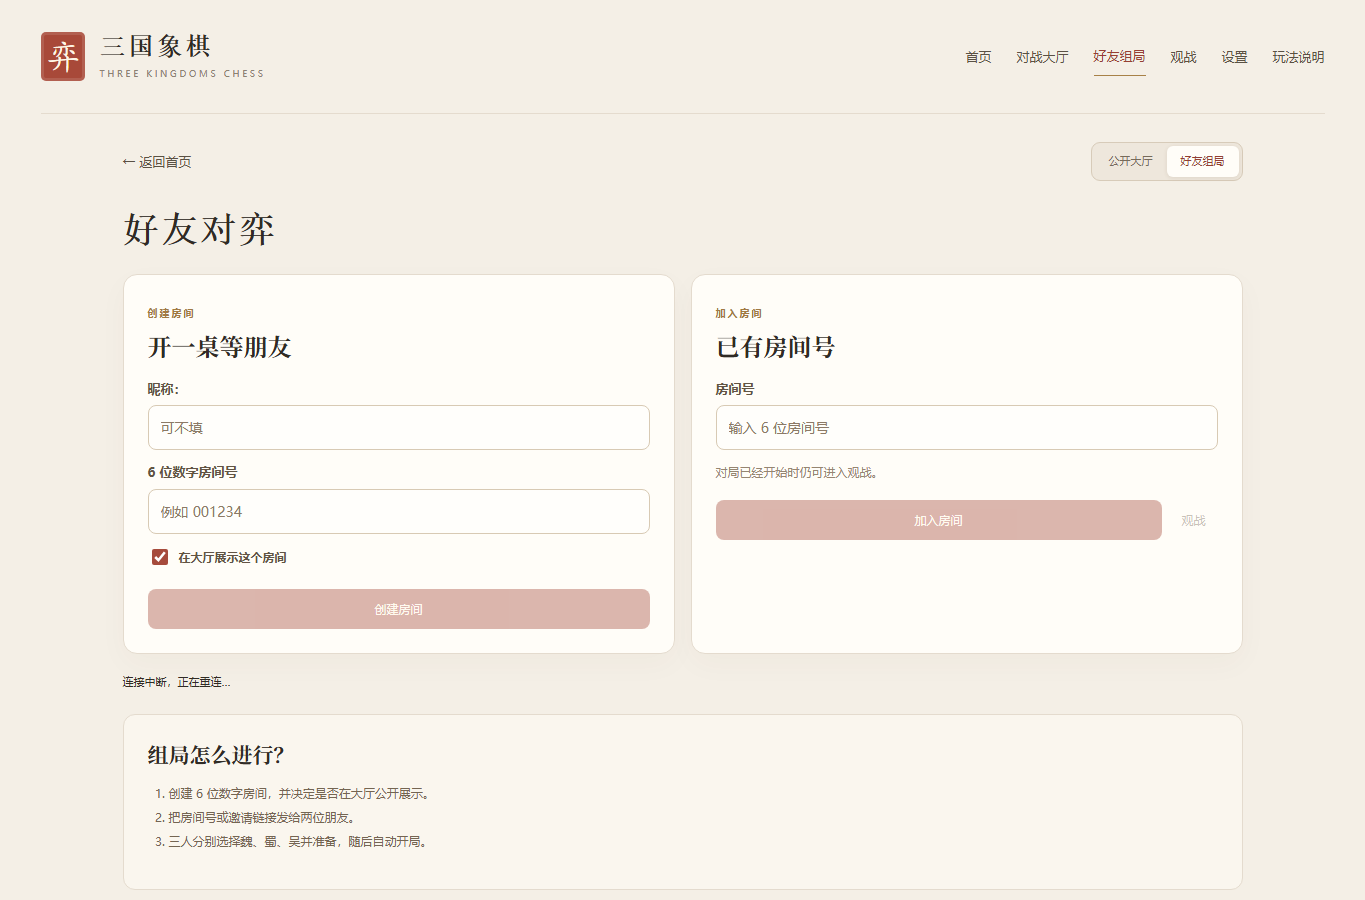
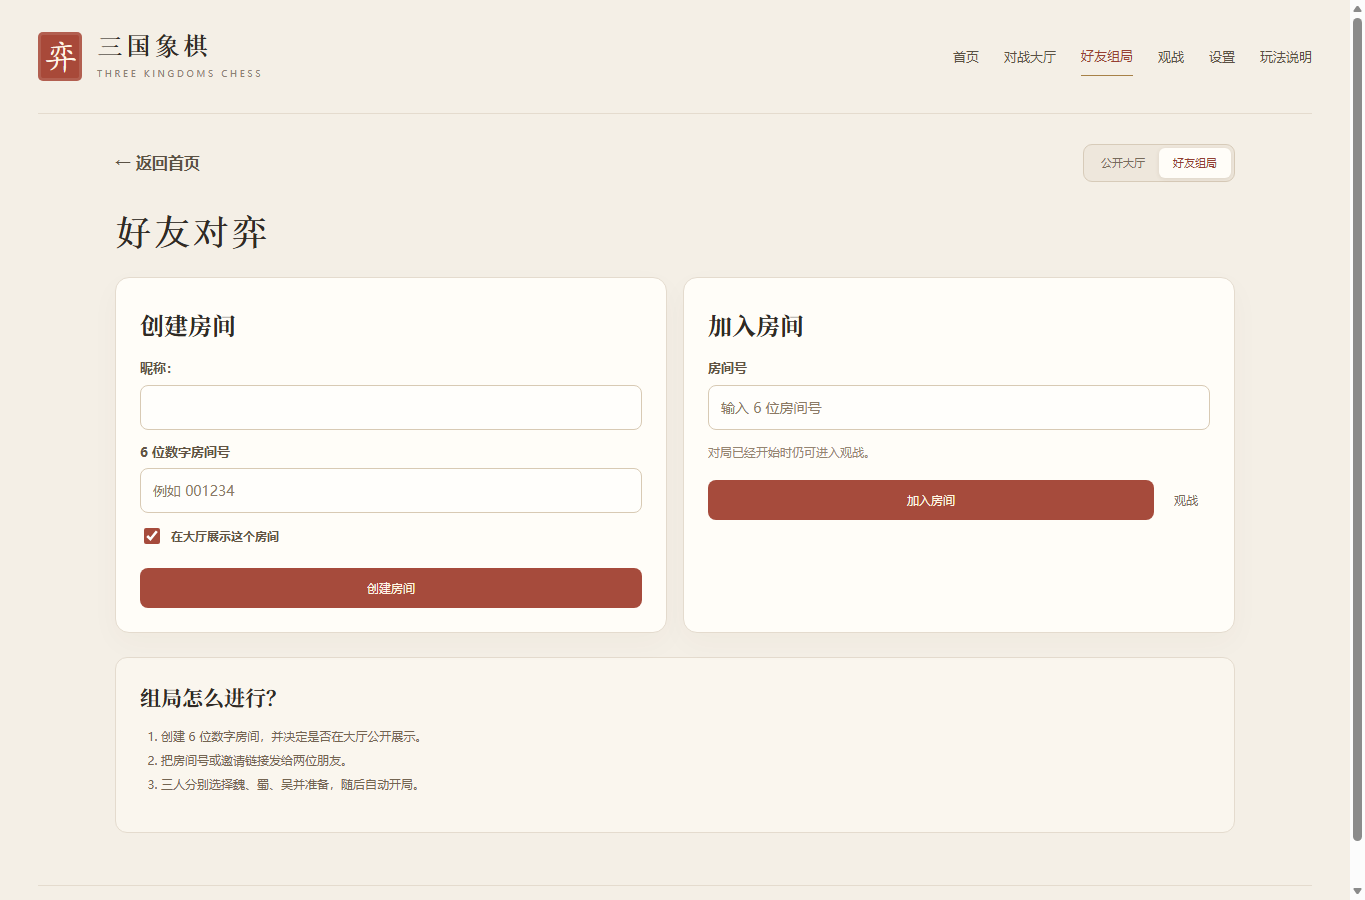
feat: simplify friend room headings

diff --git a/src/components/LobbyPage.vue b/src/components/LobbyPage.vue
@@ -118,17 +118,15 @@ function submitTableDialog() {
 
     <section v-if="mode === 'friends'" class="lobby-entry-grid">
       <form class="lobby-entry-card" @submit.prevent="emit('create')">
-        <span class="lobby-card-kicker">创建房间</span>
-        <h2>开一桌等朋友</h2>
-        <label>昵称：<input :value="nickname" maxlength="16" autocomplete="nickname" placeholder="可不填" @input="emit('updateNickname', ($event.target as HTMLInputElement).value)"></label>
+        <h2>创建房间</h2>
+        <label>昵称：<input :value="nickname" maxlength="16" autocomplete="nickname" @input="emit('updateNickname', ($event.target as HTMLInputElement).value)"></label>
         <label>6 位数字房间号<input :value="createCode" maxlength="6" inputmode="numeric" pattern="[0-9]{6}" autocomplete="off" aria-label="创建房间号" placeholder="例如 001234" @input="emit('updateCreateCode', ($event.target as HTMLInputElement).value.replace(/[^0-9]/g, ''))"></label>
         <label class="lobby-listed-option"><input type="checkbox" :checked="listed" @change="emit('updateListed', ($event.target as HTMLInputElement).checked)">在大厅展示这个房间</label>
         <button class="primary-button" type="submit" :disabled="busy || !online || hasRoom">创建房间</button>
       </form>
 
       <form class="lobby-entry-card lobby-join-card" @submit.prevent="emit('join')">
-        <span class="lobby-card-kicker">加入房间</span>
-        <h2>已有房间号</h2>
+        <h2>加入房间</h2>
         <label>房间号<input :value="joinCode" maxlength="6" inputmode="numeric" autocomplete="off" aria-label="加入房间号" placeholder="输入 6 位房间号" @input="emit('updateJoinCode', ($event.target as HTMLInputElement).value.toUpperCase())"></label>
         <p>对局已经开始时仍可进入观战。</p>
         <div class="lobby-join-actions">
@@ -228,7 +226,7 @@ function submitTableDialog() {
 
 <style scoped>
 .club-unassigned{max-width:190px;overflow:hidden;text-overflow:ellipsis;white-space:nowrap;color:#9c503c!important}
-.lobby-card-kicker{font-size:10px;font-weight:700}
+.lobby-page-nav>.plain-button{font-size:16px;font-weight:600}
 .lobby-entry-card h2{font-size:24px}
 .lobby-entry-card label{font-size:13px;font-weight:600;color:#625444}
 .lobby-entry-card input{font-size:14px;font-weight:500;color:#43382d}

diff --git a/tests/ui.test.ts b/tests/ui.test.ts
@@ -53,6 +53,9 @@ test('new visitors start on the home page and can open local play, rules, friend
   assert.ok(wrapper.find('.lobby-page').exists());
   assert.equal(wrapper.get('.lobby-page-heading h1').text(), '好友对弈');
   assert.doesNotMatch(wrapper.get('.lobby-page-heading').text(), /游客体验|无需登录|创建 6 位数字房间/);
+  assert.deepEqual(wrapper.findAll('.lobby-entry-card h2').map(item => item.text()), ['创建房间', '加入房间']);
+  assert.equal(wrapper.find('.lobby-entry-card .lobby-card-kicker').exists(), false);
+  assert.equal(wrapper.get('.lobby-entry-card input[autocomplete="nickname"]').attributes('placeholder'), undefined);
 
   wrapper.unmount(); wrapper = mountHome();
   await wrapper.findAll('.home-action-card').find(button => button.text() === '公开大厅')!.trigger('click');

diff --git a/docs/V0.1验收清单.md b/docs/V0.1验收清单.md
@@ -20,7 +20,7 @@
 
 - [x] 新访客首先进入游戏首页，可进入公开大厅、好友组局、本地试玩和玩法说明；首页不展开完整棋盘。
 - [x] 首页三个主入口按“公开大厅 / 好友对战 / 本地试玩”排列，仅展示大标题；三张静态阵营卡、首屏重复入口及页尾重复的玩法说明/设置均已删除。
-- [x] 好友页标题为“好友对弈”，移除游客提示和说明段；好友页、席位弹框及观战入口的字段标签、输入内容和占位提示均已放大加粗。
+- [x] 好友页标题为“好友对弈”，移除游客提示和说明段；两张表单以“创建房间 / 加入房间”为主标题，不再显示红色小标题；返回首页字号提升，昵称框不显示“可不填”占位文字。
 - [x] 公开大厅固定展示 10 桌：首桌为常驻公开房间，其余 9 桌无人时显示空桌，创建后显示房间号并点亮；“棋社桌位”标题已移除。
 - [x] 每桌包含曹操、刘备、孙权席位及中间房间状态，公开摘要不包含棋局和重连凭证。
 - [x] 三个席位均可点击；弹框只显示可选“昵称：”，不要求昵称，加入时直接坐到所点阵营，空桌创建时输入 6 位房间号。
